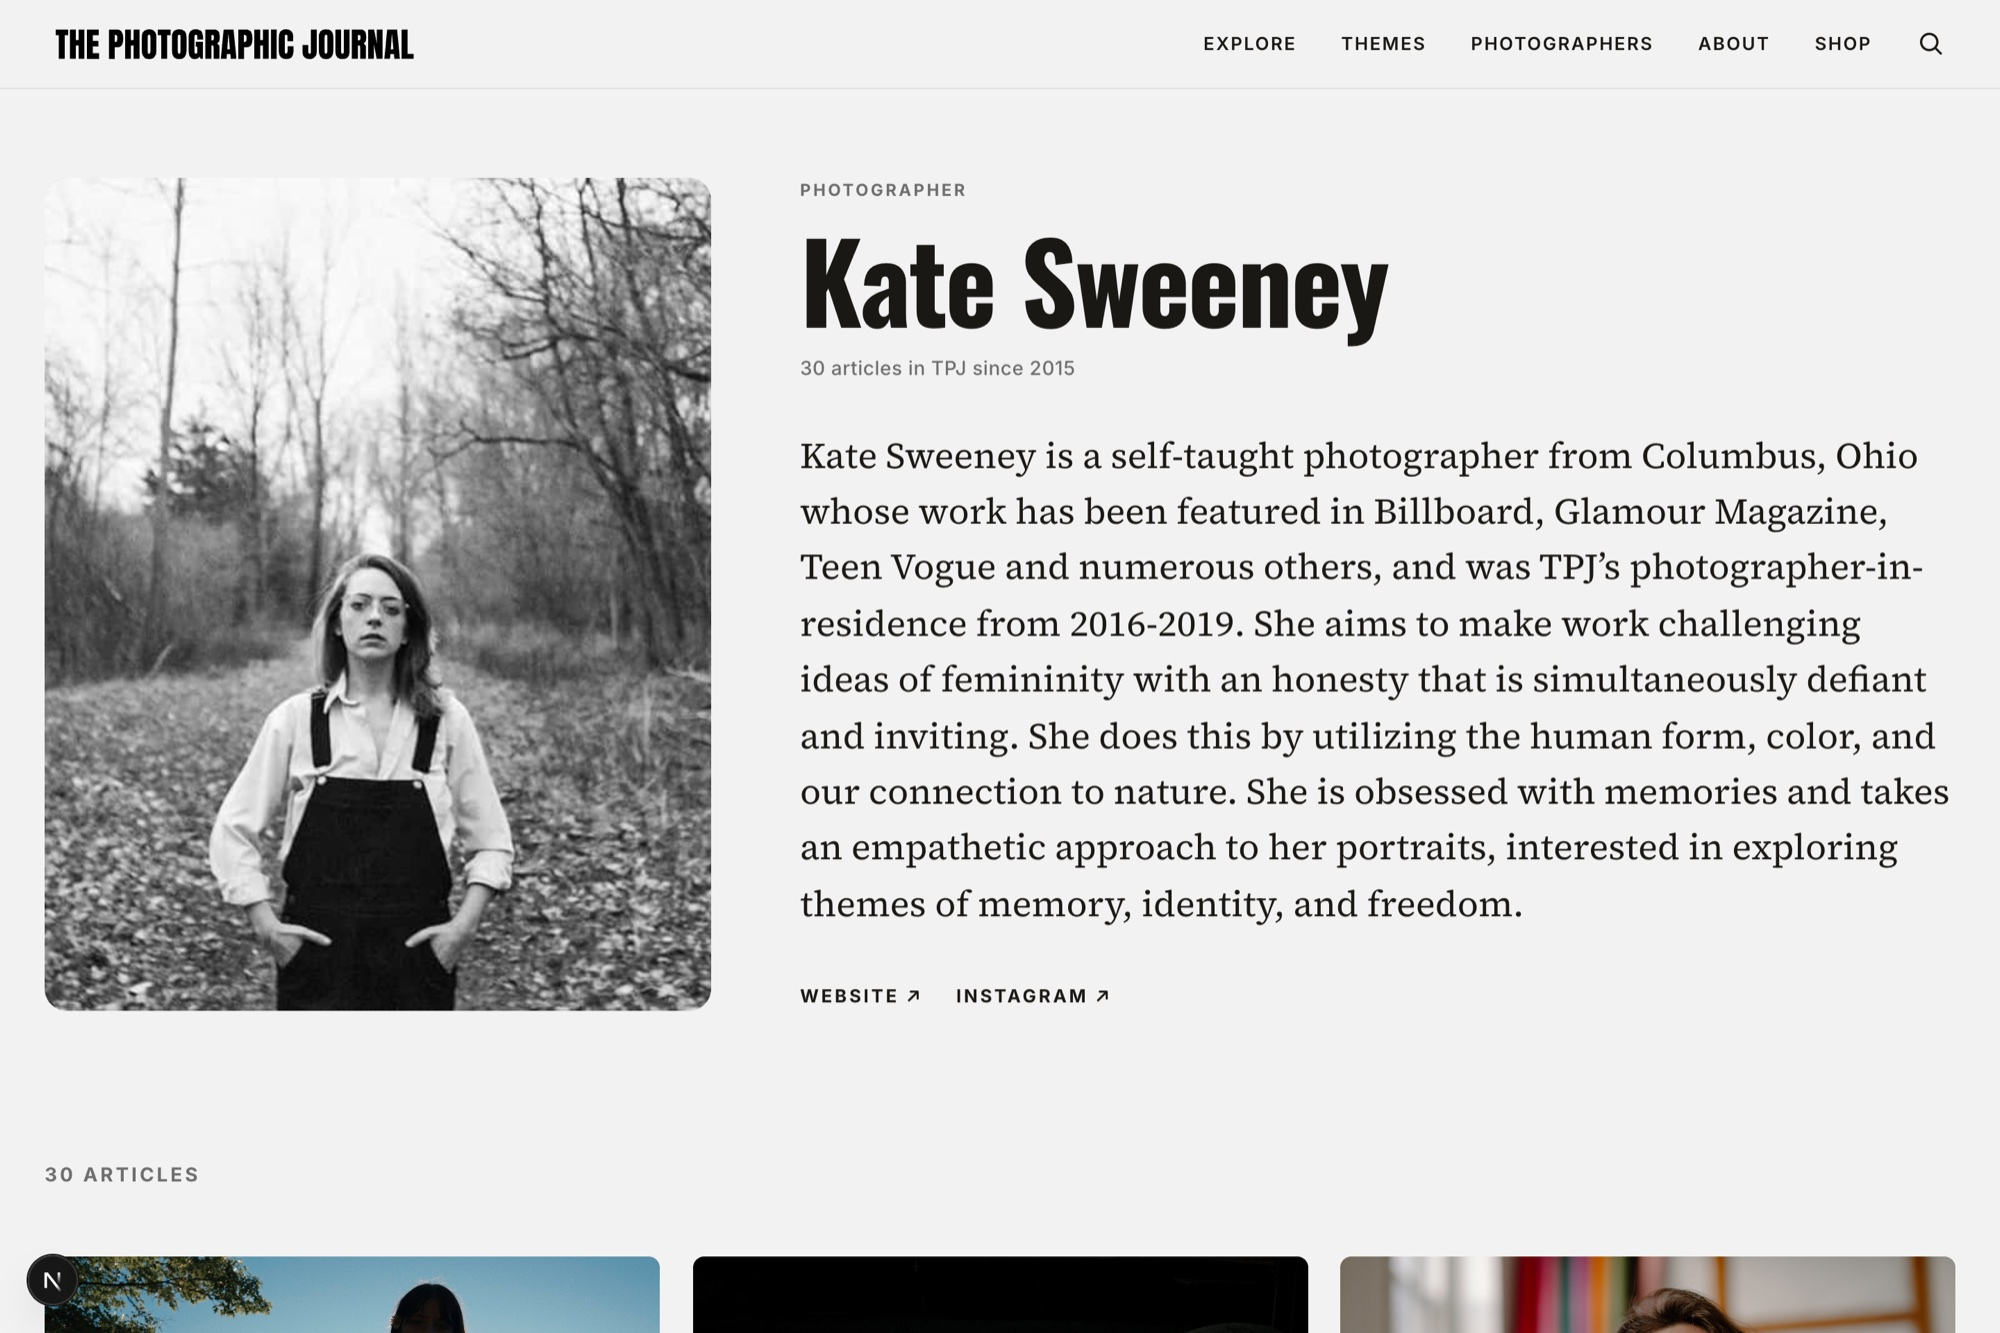
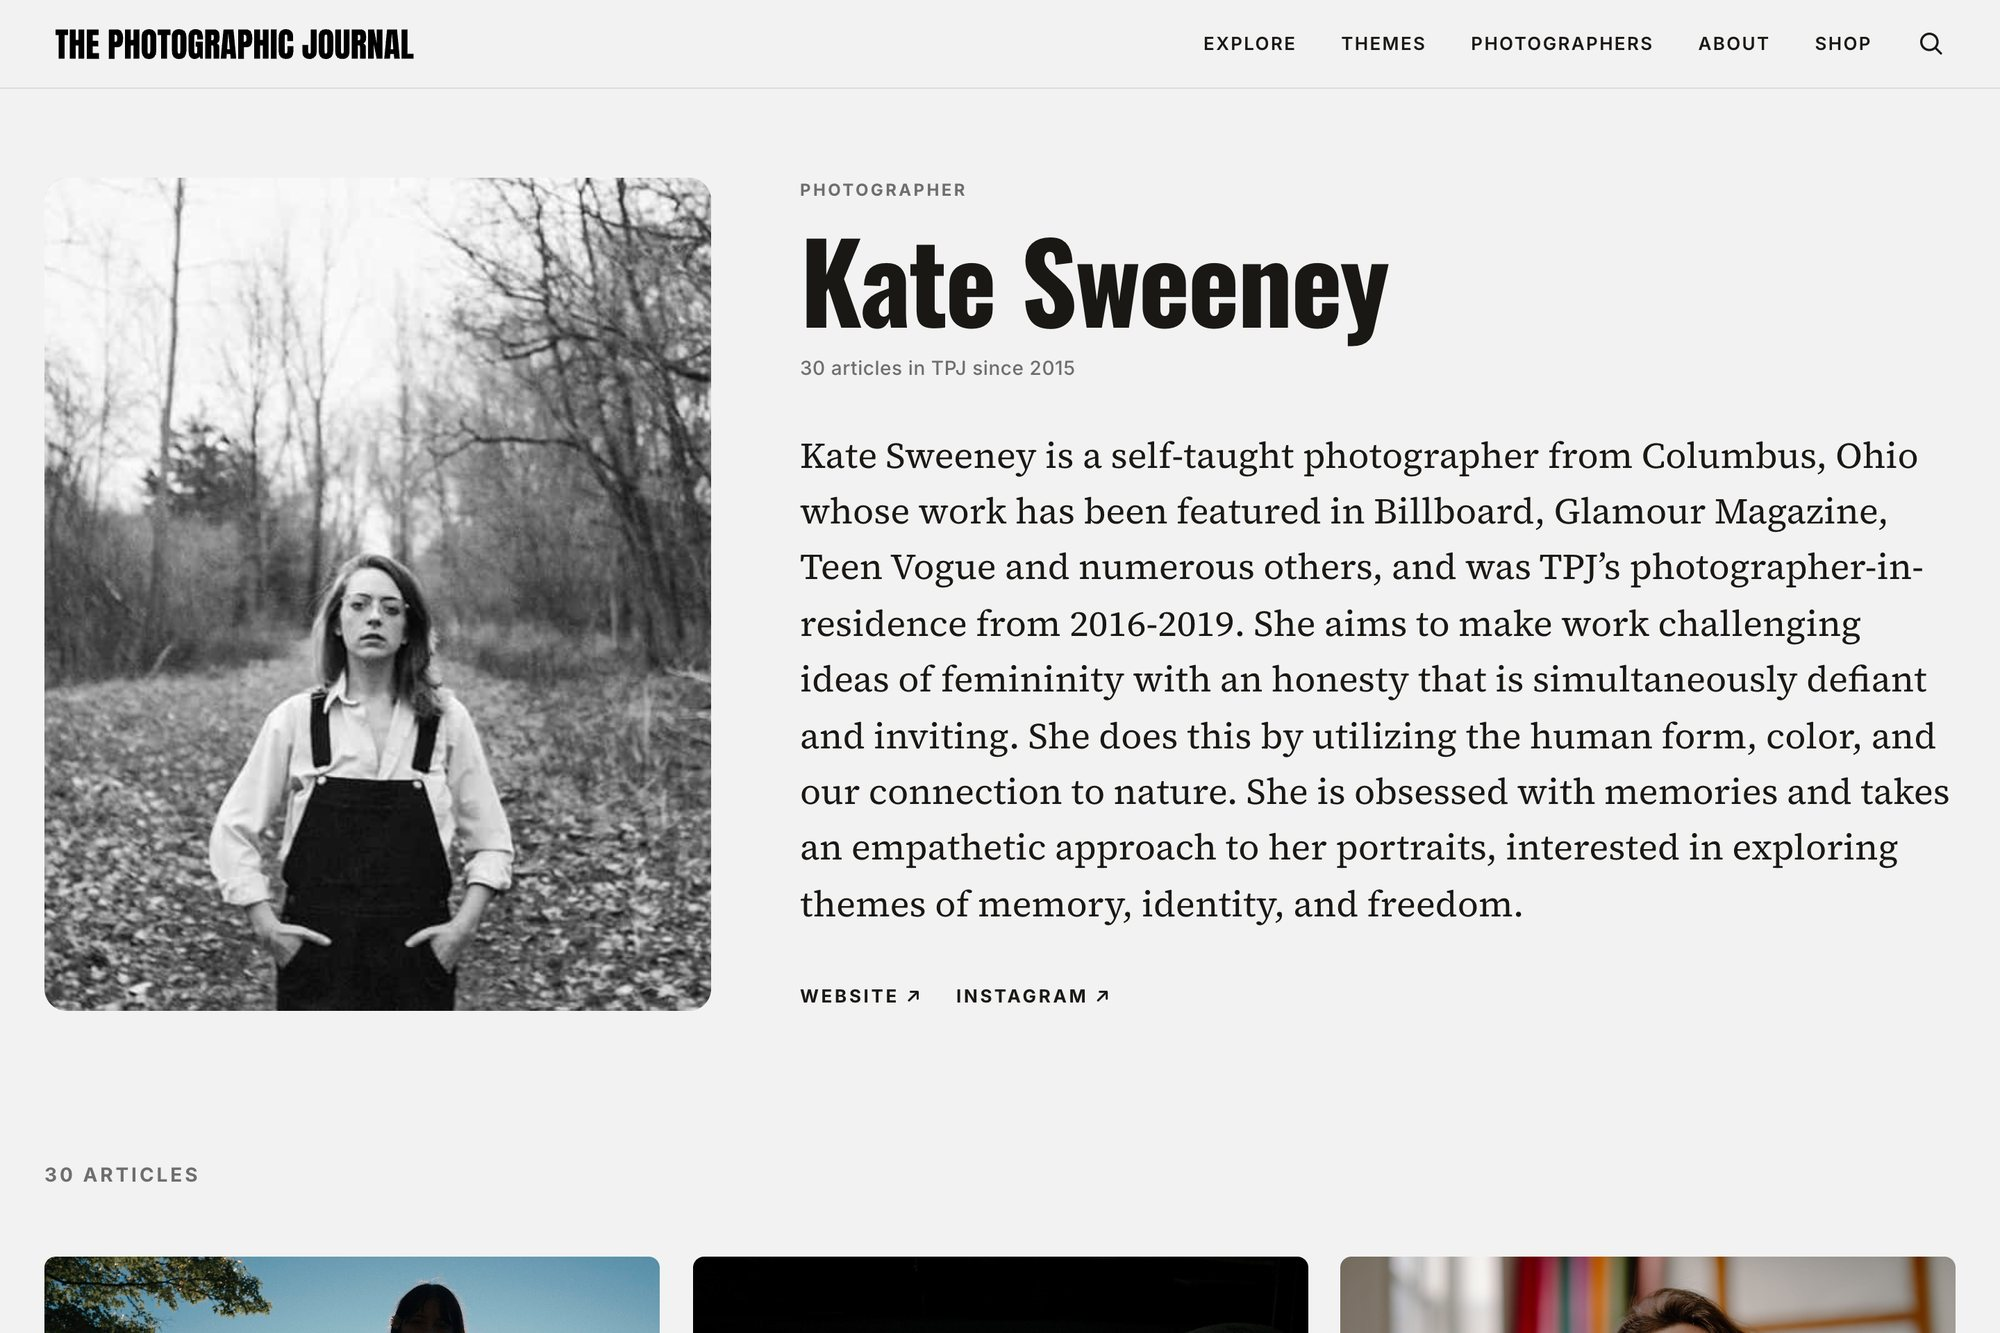
TPJ: fresh screenshots from the newest build, marks retuned
All six V2 captures retaken from the current site with the dev
server badge hidden at capture time (badge element confirmed hidden
on every shot). Annotation marks re-measured from the live DOM so
they sit on the elements they name.

diff --git a/work/the-photographic-journal.html b/work/the-photographic-journal.html
@@ -164,7 +164,7 @@
       <figure class="narrative__lead">
         <div class="shot" data-img>
           <img srcset="/_vercel/image?url=%2Fimages%2Ftpj-v2%2Fhome-top.jpg&w=480&q=78 480w, /_vercel/image?url=%2Fimages%2Ftpj-v2%2Fhome-top.jpg&w=828&q=78 828w, /_vercel/image?url=%2Fimages%2Ftpj-v2%2Fhome-top.jpg&w=1200&q=78 1200w, /_vercel/image?url=%2Fimages%2Ftpj-v2%2Fhome-top.jpg&w=1600&q=78 1600w, /_vercel/image?url=%2Fimages%2Ftpj-v2%2Fhome-top.jpg&w=2048&q=78 2048w" sizes="92vw" src="/images/tpj-v2/home-top.jpg" alt="TPJ V2 homepage: full-bleed hero photograph with a lime Latest Photo Essay chip, Oswald display title, and Source Serif italic introduction" />
-          <span class="shot__mark" style="--x:6%; --y:37.5%; --w:35%; --h:43.5%"
+          <span class="shot__mark" style="--x:5.9%; --y:37.3%; --w:35.8%; --h:41.4%"
                 data-label="Oswald display, Source Serif body"></span>
         </div>
         <figcaption class="caption c-mid">The new homepage: the work leads, and the type stays out of its way.</figcaption>
@@ -184,9 +184,9 @@
       <figure class="narrative__lead">
         <div class="shot" data-img>
           <img srcset="/_vercel/image?url=%2Fimages%2Ftpj-v2%2Fphotographer-profile.jpg&w=480&q=78 480w, /_vercel/image?url=%2Fimages%2Ftpj-v2%2Fphotographer-profile.jpg&w=828&q=78 828w, /_vercel/image?url=%2Fimages%2Ftpj-v2%2Fphotographer-profile.jpg&w=1200&q=78 1200w, /_vercel/image?url=%2Fimages%2Ftpj-v2%2Fphotographer-profile.jpg&w=1600&q=78 1600w, /_vercel/image?url=%2Fimages%2Ftpj-v2%2Fphotographer-profile.jpg&w=2048&q=78 2048w" sizes="92vw" src="/images/tpj-v2/photographer-profile.jpg" alt="TPJ V2 photographer profile page: portrait, bio, and the photographer's articles gathered in one place" />
-          <span class="shot__mark" style="--x:39%; --y:13.5%; --w:32.5%; --h:16%"
+          <span class="shot__mark" style="--x:39.5%; --y:16%; --w:30.5%; --h:9.5%"
                 data-label="A photographer, not a byline"></span>
-          <span class="shot__mark shot__mark--below" style="--x:2%; --y:86.5%; --w:12%; --h:4%"
+          <span class="shot__mark shot__mark--below" style="--x:1.8%; --y:86.2%; --w:9%; --h:3.8%"
                 data-label="Their whole archive"></span>
         </div>
         <figcaption class="caption c-mid">The fix for the desirability problem: photographers become real pages, and the archive becomes browsable by the people in it.</figcaption>
@@ -206,7 +206,7 @@
       <figure class="narrative__lead">
         <div class="shot" data-img>
           <img srcset="/_vercel/image?url=%2Fimages%2Ftpj-v2%2Ftheme-browser-memory.jpg&w=480&q=78 480w, /_vercel/image?url=%2Fimages%2Ftpj-v2%2Ftheme-browser-memory.jpg&w=828&q=78 828w, /_vercel/image?url=%2Fimages%2Ftpj-v2%2Ftheme-browser-memory.jpg&w=1200&q=78 1200w, /_vercel/image?url=%2Fimages%2Ftpj-v2%2Ftheme-browser-memory.jpg&w=1600&q=78 1600w, /_vercel/image?url=%2Fimages%2Ftpj-v2%2Ftheme-browser-memory.jpg&w=2048&q=78 2048w" sizes="92vw" src="/images/tpj-v2/theme-browser-memory.jpg" alt="TPJ V2 theme browser: eleven theme chips with Memory selected, above a fresh grid of essays from that theme" />
-          <span class="shot__mark shot__mark--below" style="--x:5.5%; --y:68.5%; --w:70%; --h:4.3%"
+          <span class="shot__mark shot__mark--below" style="--x:4.9%; --y:54%; --w:71%; --h:5%"
                 data-label="Eleven themes, Memory selected"></span>
         </div>
         <figcaption class="caption c-mid">Eleven themes derived from the archive itself. Pick one and the grid answers.</figcaption>
@@ -217,15 +217,15 @@
           <span data-img><img srcset="/_vercel/image?url=%2Fimages%2Ftpj-v2%2Fhome-mobile.jpg&w=480&q=78 480w, /_vercel/image?url=%2Fimages%2Ftpj-v2%2Fhome-mobile.jpg&w=828&q=78 828w, /_vercel/image?url=%2Fimages%2Ftpj-v2%2Fhome-mobile.jpg&w=1200&q=78 1200w, /_vercel/image?url=%2Fimages%2Ftpj-v2%2Fhome-mobile.jpg&w=1600&q=78 1600w, /_vercel/image?url=%2Fimages%2Ftpj-v2%2Fhome-mobile.jpg&w=2048&q=78 2048w" sizes="(max-width: 640px) 92vw, 46vw" src="/images/tpj-v2/home-mobile.jpg" alt="TPJ V2 homepage at phone width, the hero card and type holding their hierarchy" /></span>
           <span data-img><img srcset="/_vercel/image?url=%2Fimages%2Ftpj-v2%2Fessay-mobile.jpg&w=480&q=78 480w, /_vercel/image?url=%2Fimages%2Ftpj-v2%2Fessay-mobile.jpg&w=828&q=78 828w, /_vercel/image?url=%2Fimages%2Ftpj-v2%2Fessay-mobile.jpg&w=1200&q=78 1200w, /_vercel/image?url=%2Fimages%2Ftpj-v2%2Fessay-mobile.jpg&w=1600&q=78 1600w, /_vercel/image?url=%2Fimages%2Ftpj-v2%2Fessay-mobile.jpg&w=2048&q=78 2048w" sizes="(max-width: 640px) 92vw, 46vw" src="/images/tpj-v2/essay-mobile.jpg" alt="TPJ V2 essay page at phone width, photograph and prose in a single column" /></span>
         </div>
-        <figcaption class="caption c-mid">The same hierarchy at 375 pixels: hero 96 becomes 56, and the labels stay quiet at every size.</figcaption>
+        <figcaption class="caption c-mid">The same hierarchy on a phone: the hero type steps down, and the labels stay quiet at every size.</figcaption>
       </figure>
 
       <figure class="narrative__lead">
         <div class="shot" data-img>
           <img srcset="/_vercel/image?url=%2Fimages%2Ftpj-v2%2Finterview-qa.jpg&w=480&q=78 480w, /_vercel/image?url=%2Fimages%2Ftpj-v2%2Finterview-qa.jpg&w=828&q=78 828w, /_vercel/image?url=%2Fimages%2Ftpj-v2%2Finterview-qa.jpg&w=1200&q=78 1200w, /_vercel/image?url=%2Fimages%2Ftpj-v2%2Finterview-qa.jpg&w=1600&q=78 1600w, /_vercel/image?url=%2Fimages%2Ftpj-v2%2Finterview-qa.jpg&w=2048&q=78 2048w" sizes="92vw" src="/images/tpj-v2/interview-qa.jpg" alt="TPJ V2 interview page showing the question and answer treatment: questions in Inter SemiBold, answers in Source Serif" />
-          <span class="shot__mark" style="--x:23.5%; --y:7.9%; --w:52%; --h:14%"
+          <span class="shot__mark" style="--x:23.3%; --y:7.5%; --w:53.4%; --h:16%"
                 data-label="Question · Inter SemiBold"></span>
-          <span class="shot__mark shot__mark--below" style="--x:23.5%; --y:24.9%; --w:52%; --h:15.8%"
+          <span class="shot__mark shot__mark--below" style="--x:23.3%; --y:26%; --w:53.4%; --h:16.6%"
                 data-label="Answer · Source Serif"></span>
         </div>
         <figcaption class="caption c-mid">The Q&amp;A treatment: question and answer differentiated by typeface, not by color or indentation. From the LaChapelle interview.</figcaption>
